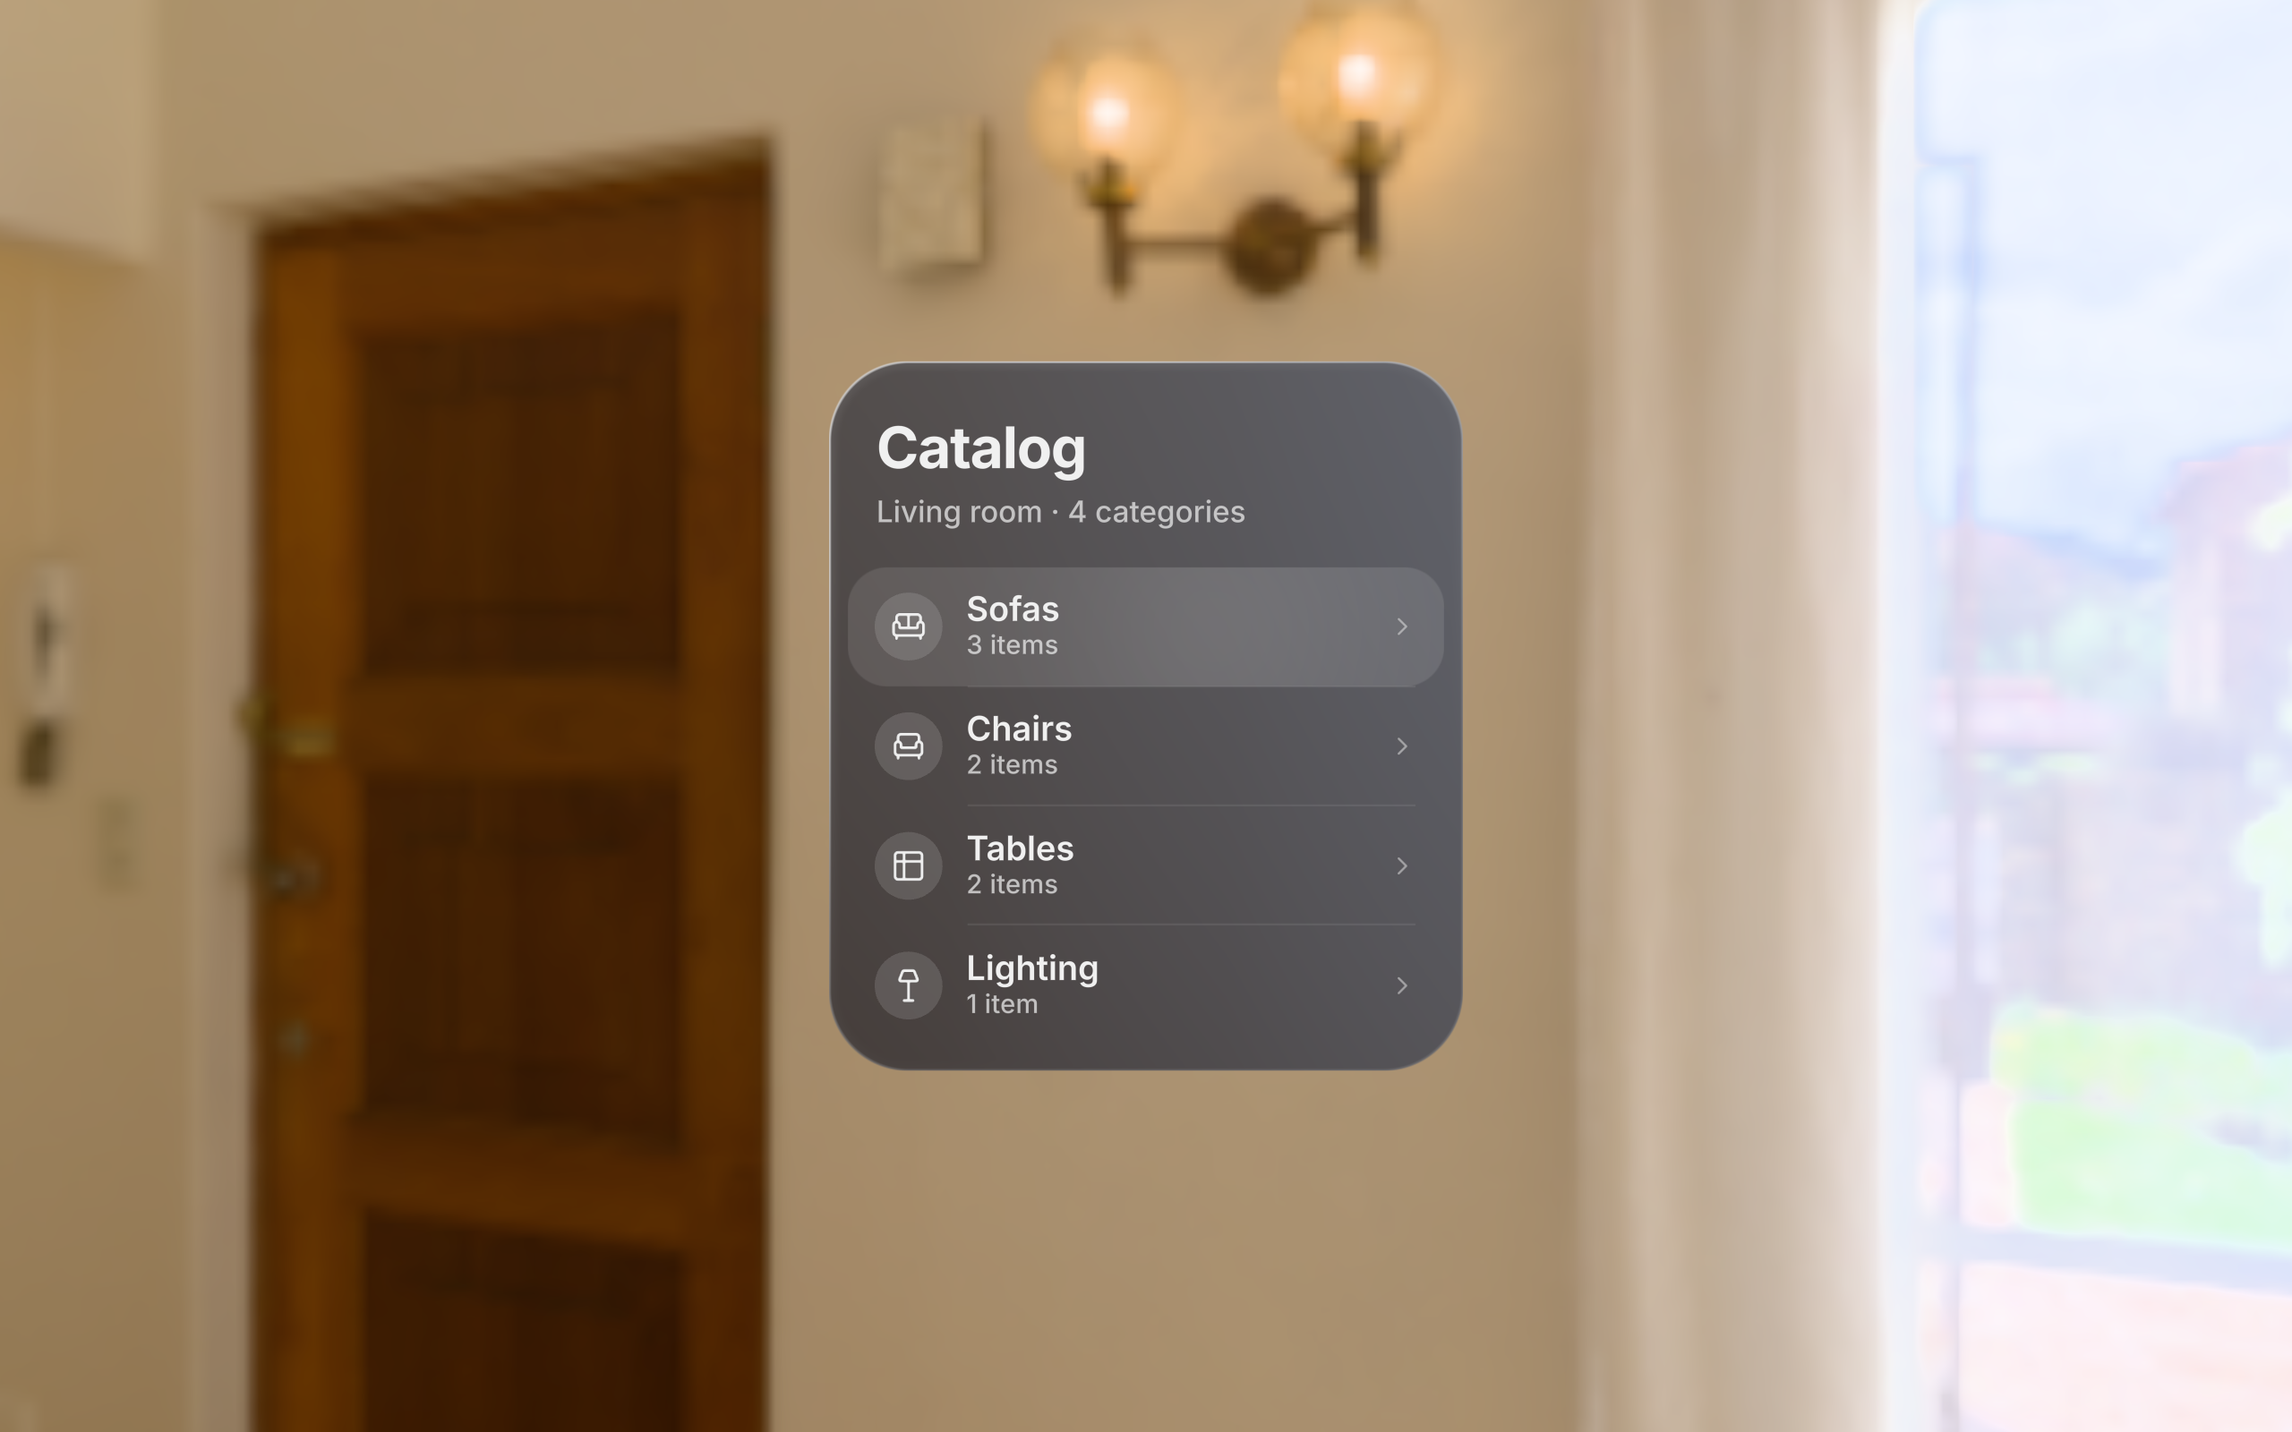
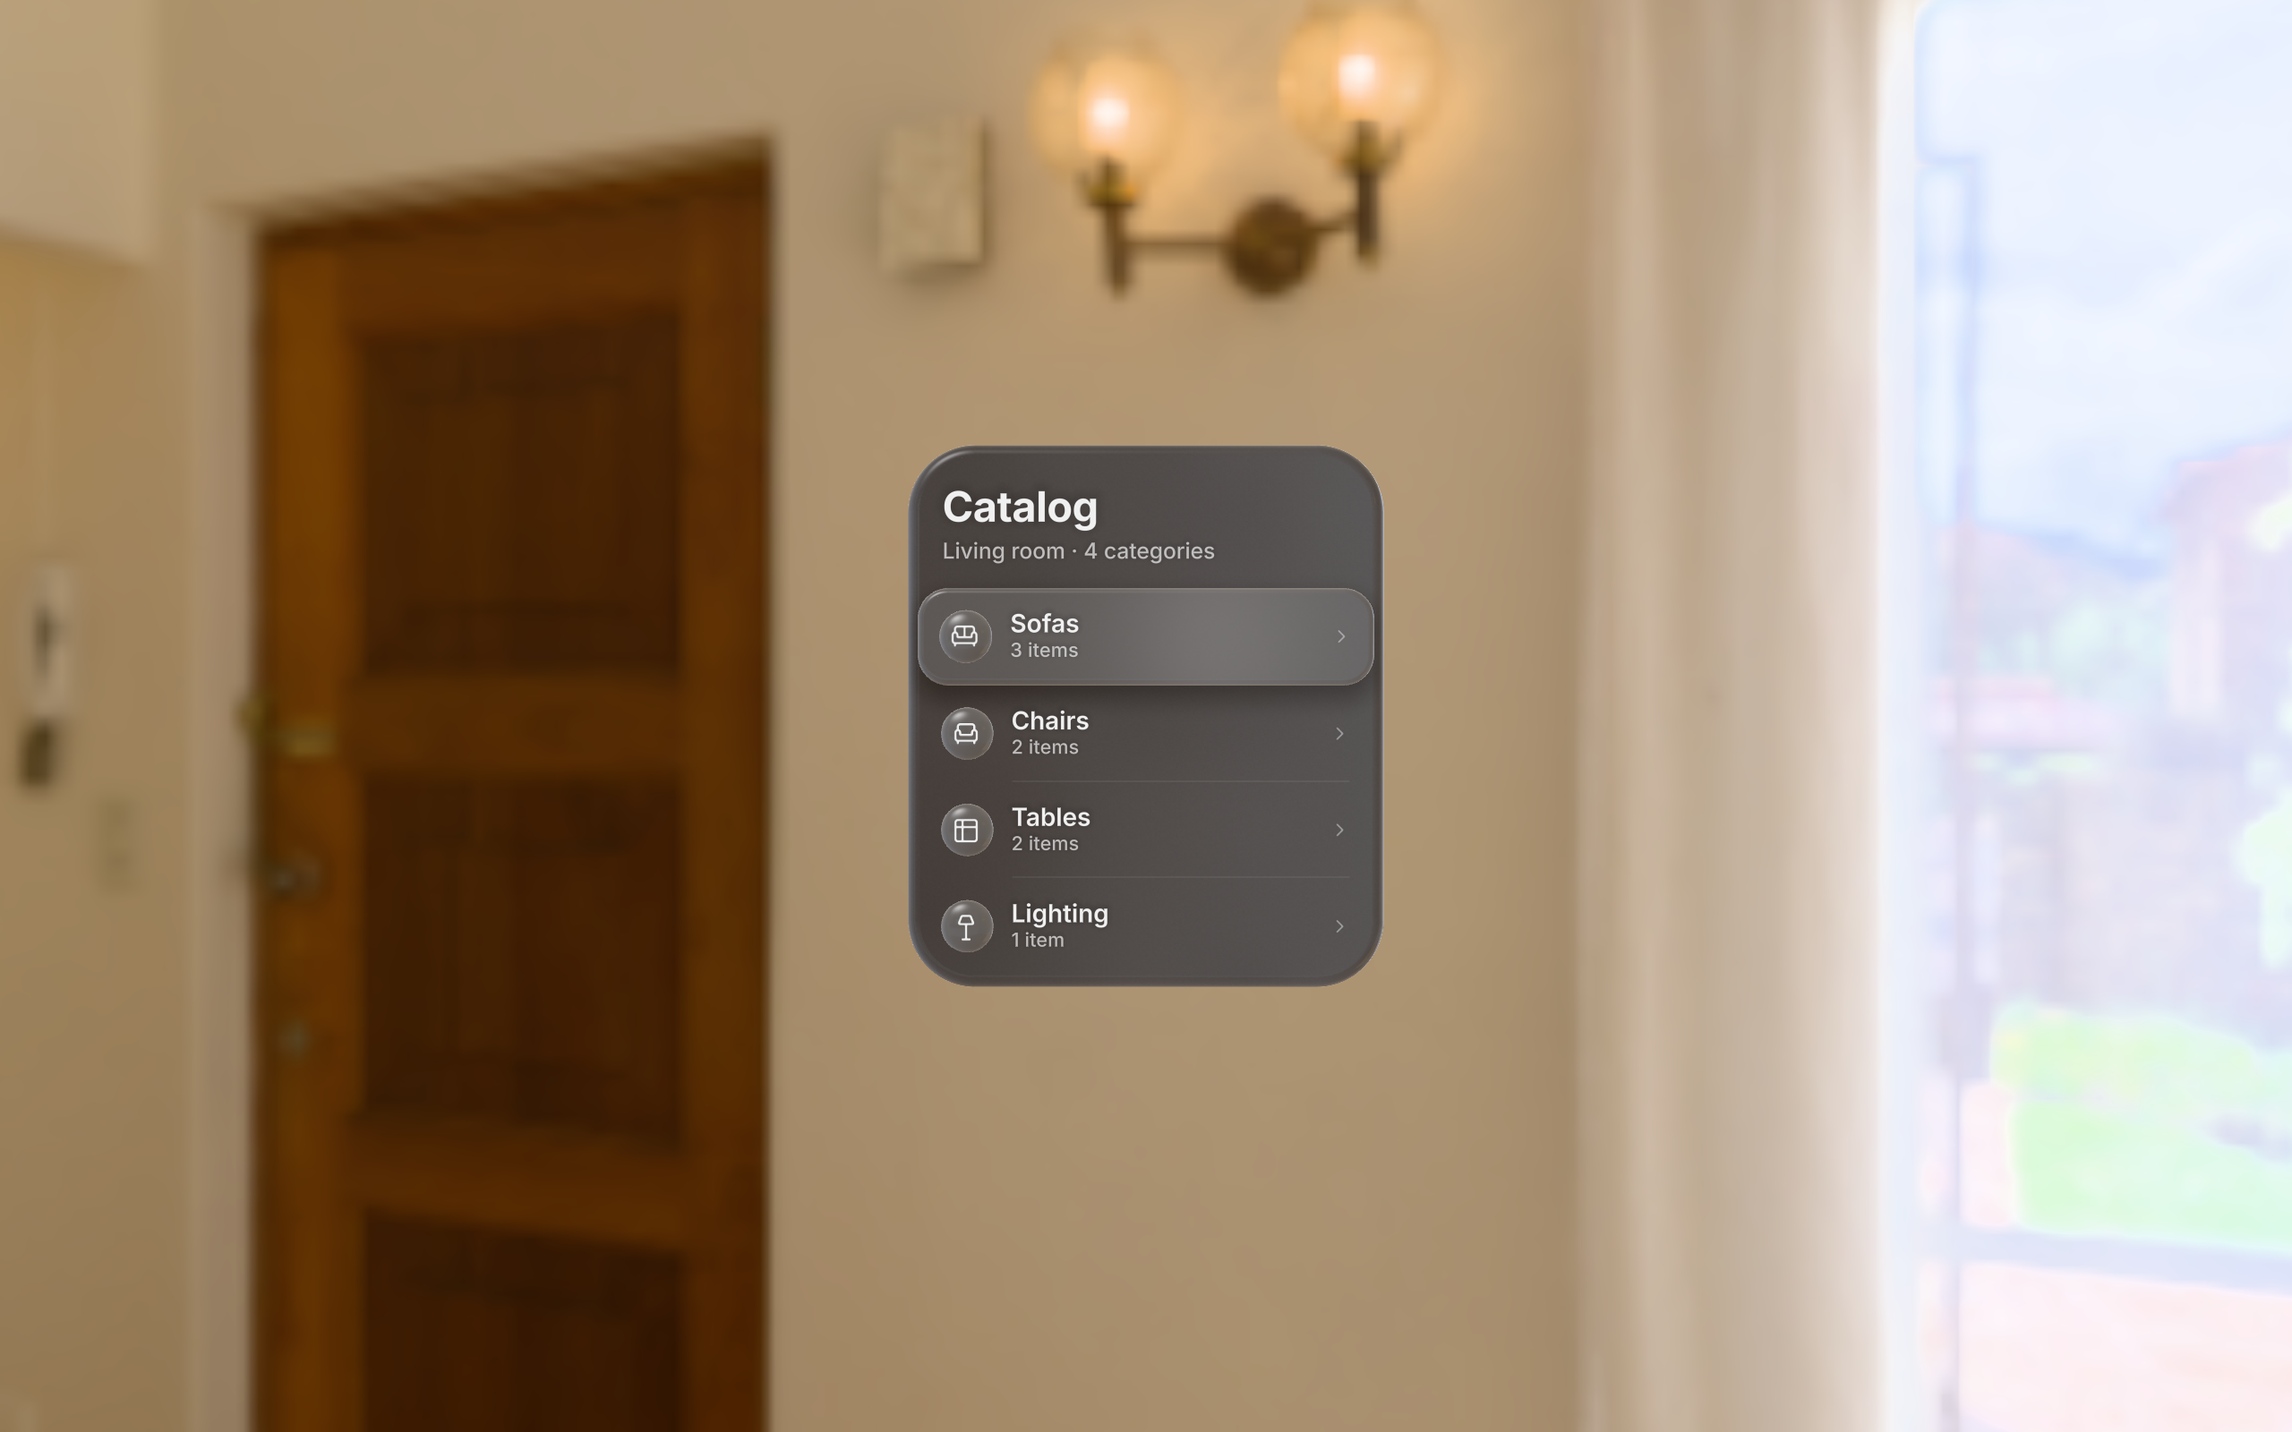
Update the Catalog spec and component docs for round 3
Claude-Session: https://claude.ai/code/session_01F2z6dGVrWdTUTwYeLec8bi

Changed region(s): [[0.3438, 0.25, 0.6562, 0.75]]

diff --git a/docs/catalog-spec.md b/docs/catalog-spec.md
@@ -2,7 +2,7 @@
 
 The first round of components worked but did not look like a shipping XR product. This page records why, and the spec the rebuild follows. The Catalog window is rebuilt first; the other components follow the same spec once it passes the bar.
 
-Units: dmm (millimetres at 1 m, see [concepts](concepts.md)). Contour treats 1 dmm as roughly 1 visionOS point, because `size.button.default` (60 dmm) matches Apple's 60 pt minimum target. That mapping is inferred, not measured.
+Units: dmm (millimetres at 1 m, see [concepts](concepts.md)). Sizes are taken from Apple's visionOS 26 UI kit and converted with **1 pt ≈ 0.73 dmm**, the ratio Apple states (60 pt ≈ 4.4 cm at 1 m). Round 2 assumed 1 pt ≈ 1 dmm, which made everything about 37 % too big.
 
 ## Critique of round 1
 
@@ -18,63 +18,78 @@ Judged against the arena bar (material, light, shape, type, states, depth, cohes
 | Depth | Opened levels stacked as overlapping translucent cards; titles bled through each other. | "Never stack light translucent surfaces" (Apple). Parents must push back and dim as one layer, and only their header should stay readable. |
 | Cohesion | A cartoon room with box furniture. | The backdrop sets the bar for everything in front of it. A fake room makes real-looking UI look fake too. |
 
+## Critique of round 2 (Jihoon)
+
+| What Jihoon saw | What was behind it | Round 3 fix |
+|---|---|---|
+| No texture of material | The glass was a flat sheet with one colour and a painted edge line. | A thick slab whose rounded rim refracts and reflects the room, with Fresnel, a key-light highlight, rim light and a fine frost grain. |
+| Depth not compelling | Nothing cast a shadow and nothing had thickness. | Each level casts a soft contact shadow on the one behind; the slab has visible thickness from the side. |
+| Back layers interfere with the front | Pushed-back levels still showed their lists. | A pushed-back level shows only its darkened title. |
+| Too 2D; hover only changed a colour | Hover was a flat white fill. | Hover lifts a light glass lens out of the window, carrying the row with it and casting a shadow. Icons sit in glass beads. |
+
 ## Spec
 
 ### Backdrop
 A photographed interior (Poly Haven `lebombo`, CC0) used as both the environment light and the background. On a headset in mixed reality the background is your real room, and the backdrop is hidden.
 
-### Glass material (windows)
-- **Body:** a flat glass sheet. It shows the backdrop directly behind it, blurred heavily, darkened and slightly desaturated, so white text stays legible over bright walls.
-- **Edge:** a 1 dmm specular line (`surface.outline.mr`), bright at the top-left, fading toward the bottom-right. No dark outline.
-- **Sheen:** a faint top-to-bottom gradient, lighter at the top, like light falling from above.
-- **Mixed reality fallback:** a web page cannot read or blur the passthrough camera, so in mixed reality the glass becomes a tinted surface at `surface.opacity.base`.
-- **Thickness:** windows use `material.t.thin`. Thickness stays a property of controls.
+### Glass material
+One shader, three kinds: **window** (dark structural glass), **lens** (light glass for a hovered row) and **bead** (icon badge). Each is drawn from what a real slab does with light:
+- **Transmission:** the room behind, seen through the slab, frosted (blurred) and refracted, so the rounded rim bends it like a lens. It is darkened and partly desaturated so white text stays legible.
+- **Reflection:** the room in front, mirrored by the surface. Face-on it's faint (4 %, Fresnel); at the curved rim it's strong, so the edge glows.
+- **Key light and rim light:** a soft highlight from above-left on the rim, brightest along the top.
+- **Frost grain:** a fine static grain and a slow cloudiness fixed to the surface, so it reads as a material, not a colour.
+- **Veil:** lens and bead add a thin milky layer: light glass on dark glass.
+- **Contact shadows:** soft shadows from what floats in front (a child level, a lifted lens). Softness grows with the gap.
+- **Adaptive scrim:** over a bright room the glass darkens just enough for white text, up to `surface.scrim.max`.
+- **Mixed reality fallback:** a web page can't read the passthrough camera, so in mixed reality the glass becomes a tinted surface at `surface.opacity.base`.
+- **Thickness:** windows `material.t.regular` (8 mm) with a fully rounded rim; row lenses `material.t.thin` (4 mm), lifted 5 mm on hover.
+
+Apple's kit draws glass as 50 % grey at 30 % in Luminosity blend with a 100 px background blur and a white gradient edge stroke. Contour keeps that recipe for the transmission and goes beyond it with thickness, refraction, reflection and shadows, which the kit doesn't have.
 
 ### Type ramp (dmm, Inter)
-Weights are one step heavier than on a flat screen, because text over glass needs more presence (vibrancy).
+From Apple's kit; nothing lighter than Medium. Inter runs a little heavy, so Apple's Bold rows become Semibold.
 
-| Style | Size | Weight | Tracking | Use |
-|---|---|---|---|---|
-| title | 29 | 700 | −0.02 em | Window title |
-| headline | 17 | 600 | 0 | Row label |
-| body | 17 | 500 | 0 | Body text |
-| subheadline | 15 | 500 | 0 | Window subtitle |
-| footnote | 13 | 500 | +0.01 em | Row detail |
+| Style | Apple (pt) | Contour (dmm) | Weight | Tracking | Use |
+|---|---|---|---|---|---|
+| title | LargeTitle 29 | 21 | 700 | −0.01 em | Window title |
+| headline | Headline 17 | 12.4 | 600 | 0 | Row label |
+| body | Body 17 | 12.4 | 500 | 0 | Body text |
+| subheadline | Callout 15 | 11 | 500 | 0 | Window subtitle |
+| footnote | Footnote 13 | 9.5 | 500 | +0.01 em | Row detail |
 
-Colours: primary text is white, secondary is white at 72 %, tertiary (chevrons) is white at 50 %. These were raised from 60 % and 40 % after the contrast check below.
+Colours: primary text is white, secondary is white at 72 %, tertiary (chevrons) is white at 50 %. Text has a faint shadow, so it reads as sitting on the glass.
 
 ### Layout (dmm)
-| Element | Value |
-|---|---|
-| Window width | 320 |
-| Window corner radius | 40 |
-| Window padding | 24 sides, 26 top, 14 bottom |
-| Title to subtitle | 6 |
-| Header to list | 18 |
-| Row height | 60 (above `size.target.min`) |
-| Row hover platter | inset 10 from the window edge, radius 20 |
-| Icon badge | 34 circle, white at 14 %, 18 glyph |
-| Badge to label | 12 |
-| Separator | 1 hairline, white at 8 %, starting at the label |
-| Chevron | 15, white at 50 % |
+| Element | Value | Apple (pt) |
+|---|---|---|
+| Window width | 240 | ≈ 330 |
+| Window corner radius | 34 | 46 |
+| Window padding | 18 sides, 19 top, 8 bottom | 24 |
+| Header to list | 12 | |
+| Row height | 48 (the proposed `size.target.hit.min`) | 60 hit region |
+| Row lens | inset 7 from the window edge, radius 15 | 20 |
+| Icon bead | 26 circle, 14 glyph | 36 |
+| Bead to label | 9 | 12 |
+| Separator | 0.75 hairline, white at 8 %, hidden next to a lifted row | |
+| Chevron | 11, white at 50 % | 15 |
 
 ### States
-- **Hover:** the row platter fades to white at 10 %, with a soft spot under the pointer (white at 6 %). There is no outline. Timing is `motion.hover.in`.
-- **Press:** the platter brightens, the row content moves back by the density's press depth and shrinks by up to 3 %, because a flat row has no visible thickness to show the press.
+- **Hover:** the row's glass lens fades in and lifts 5 mm toward you, carrying the row content; it casts a soft shadow on the window, and the hairlines beside it step aside. Timing is `motion.hover.in`.
+- **Press:** the lens and content move back by the density's press depth and shrink by up to 2.5 %.
 - **Disabled:** content at 40 %, no hover.
 
 ### Packaging depth
-- The parent pushes back and up (`packaging.parent.recede.*`) and dims by darkening its glass. It does not fade to see-through.
-- Only the parent's header stays visible above the child; the child covers the rest.
-- The child grows out of the row that opened it and returns into the same row (spatial consistency), using a critically damped spring so a fast back-and-forth never jumps.
+- The parent pushes back and up (`packaging.parent.recede.*`), darkens, and keeps only its title. Its list and subtitle fade out, so nothing behind competes with the front level.
+- The level in front casts a soft contact shadow on the parent.
+- The child grows out of the row that opened it and returns into it (spatial consistency), on a critically damped spring so a fast back-and-forth never jumps.
 
 ## Contrast check (accessibility)
 
-Measured on the bench renders (WCAG contrast of white text against the glass pixels behind it).
+Measured on the round 3 bench renders (WCAG contrast of white text against the glass behind it).
 
 | Where the window sits | Glass luminance | Primary text | Secondary text (72 %) |
 |---|---|---|---|
-| In front of a lit wall | 0.086 to 0.099 | 7.1 to 7.7 : 1 | 4.6 to 5.0 : 1 |
-| In front of a sunlit window | 0.12 to 0.15 | 5.2 to 6.1 : 1 | 3.6 to 4.1 : 1 |
+| In front of a lit wall | 0.086 to 0.10 | 7.0 to 7.7 : 1 | 4.6 to 5.0 : 1 |
+| In front of a sunlit window (round 2) | 0.12 to 0.15 | 5.2 to 6.1 : 1 | 3.6 to 4.1 : 1 |
 
-Primary text passes 4.5 : 1 everywhere. Secondary text passes in front of walls but drops to about 3.6 : 1 in front of a sunlit window, because the adaptive scrim stops at `surface.scrim.max` (0.35). Raising that token to about 0.6 would hold 4.5 : 1 there too; that is a token decision, so it is left open. Row targets are 60 dmm high, above `size.target.min` (32).
+Secondary text still dips below 4.5 : 1 in front of a sunlit window, because the adaptive scrim stops at `surface.scrim.max` (0.35). About 0.6 would hold 4.5 : 1 there; that is a token decision, so it is left open. Rows are 48 dmm high, above `size.target.min`.

diff --git a/docs/components.md b/docs/components.md
@@ -20,11 +20,12 @@ Other commands: `npm test` (token check + interaction logic tests), `npm run sho
 
 Behaviour comes from tokens; appearance lives in [`src/core/look.js`](../src/core/look.js). The bar is a shipping visionOS app. The Catalog window has been rebuilt to [the Catalog spec](catalog-spec.md); the toolbar, Z-Slider and Dock still use the round-1 look and come next.
 
-- **Glass windows.** A window is a flat glass sheet that shows the room behind it blurred, darkened and slightly desaturated, with a thin specular edge brightest at the top left. It reads the room from the backdrop's light map along the view ray, so it works per eye in a headset with no extra render pass.
+- **Glass windows.** A window is a thick glass slab with a fully rounded rim. It shows the room behind it frosted and darkened, refracts it at the rim, reflects the room in front (strongest at the rim), and has a fine frost grain. It reads the room from the backdrop's light map along the view ray, so it works per eye in a headset with no extra render pass.
 - **Adaptive scrim.** Over a bright part of the room the glass darkens just enough to keep white text legible, up to `surface.scrim.max`.
+- **Contact shadows.** Layers that float in front of a window (a child level, a lifted row) cast soft shadows on it, softer the further away they are.
 - **Thick controls.** Buttons and knobs are rounded solids extruded to their token thickness. Pressing compresses the solid and the face content moves with it. Thickness says "pressable", so windows don't have it.
-- **List rows** are invisible at rest; on hover a soft white platter lifts under the pointer, and on press the content shrinks slightly. No outlines.
-- **Type ramp.** Inter as signed-distance-field text, on the ramp in `DEFAULTS.type`. Secondary text is white at 72 %, not grey, so it stays legible over glass (vibrancy). Icons are Lucide outlines in round badges.
+- **List rows** are invisible at rest. On hover a light glass lens lifts out of the window, carrying the row with it; on press it moves back and shrinks slightly. Icons sit in glass beads.
+- **Type ramp.** Inter as signed-distance-field text, on Apple's visionOS ramp converted at 1 pt ≈ 0.73 dmm (`DEFAULTS.type`). Secondary text is white at 72 %, not grey, so it stays legible over glass (vibrancy).
 - **Backdrop.** On desktop and in VR the scene is a photographed interior (Poly Haven "lebombo", CC0), also used as the light. In mixed reality your real room replaces it.
 
 Appearance options on `Button`: `shape` (`rounded`, `capsule`, `circle`), `variant` (`secondary`, `primary`, `plain`, `glass`, `tinted`, `window`), `icon`, `label`, `sublabel`, `accessory: 'chevron'`, `layout: 'row'`. `makePlatter()` draws a non-interactive toolbar background.
@@ -130,14 +131,14 @@ These live in [`src/core/defaults.js`](../src/core/defaults.js), one file, so th
 | Value | Now | Why it's needed | Proposed token |
 |---|---|---|---|
 | Placement distance for dmm | 0.6 m | dmm needs a distance to become metres | `placement.distance.near` |
-| Corner radius | window 40, row 20, control 16 dmm | every surface has corners | `shape.radius.*` |
+| Corner radius | window 34, row 15, control 12 dmm | every surface has corners | `shape.radius.*` |
 | Hover fade out | same as in | only `motion.hover.in` exists | `motion.hover.out.*` |
-| Panel layout | width 320, row 60, padding 24 dmm, and the gaps in [the spec](catalog-spec.md) | the packaging panel's layout | `size.panel.*`, `size.row.*` |
-| Type ramp | title 29 / headline 17 / body 17 / subheadline 15 / footnote 13 dmm | text needs sizes, weights and tracking | `type.*` |
+| Panel layout | width 240, row 48, padding 18 dmm, and the gaps in [the spec](catalog-spec.md) | the packaging panel's layout | `size.panel.*`, `size.row.*` |
+| Type ramp | title 21 / headline 12.4 / body 12.4 / subheadline 11 / footnote 9.5 dmm (Apple's kit × 0.73) | text needs sizes, weights and tracking | `type.*` |
 | Text emphasis | white at 100 / 72 / 50 % | contrast on glass | `color.text.*` |
 | Dock follow threshold | 20° | without it, every small head move restarts the delay | `anchor.follow.threshold` |
 | Dock distance | 0.55 m | body-lock needs a distance | `anchor.distance` |
-| Glass blur and see-through, row platter, badge, separator | see `look` | appearance of windows and rows | `look.*` |
+| Glass (blur, refraction, Fresnel, grain, veil), lens lift, contact shadows, text shadow | see `look` | appearance of windows and rows | `look.*` |
 | Colours | dark graphite surfaces, blue accent | there are no colour tokens yet | `color.*` (MR contrast work) |
 
 ## Known limits
